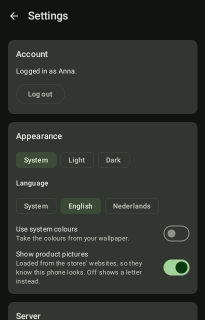
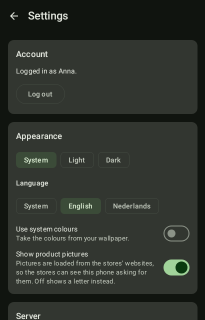
Show the picture of the offer the row's badge is for (#33)
In the per-store views the badge picks among fewer stores than the overview, so the picture follows the shown offer. Also a plainer English hint for the pictures setting.

Changed region(s): [[0.0878, 0.8125, 0.761, 0.9062], [0.0585, 0.8438, 0.0878, 0.875]]

diff --git a/composeApp/src/commonTest/kotlin/dev/tobins/mealplanner/app/ProductPicturesTest.kt b/composeApp/src/commonTest/kotlin/dev/tobins/mealplanner/app/ProductPicturesTest.kt
@@ -1,5 +1,8 @@
 package dev.tobins.mealplanner.app
 
+import dev.tobins.mealplanner.api.Offer
+import dev.tobins.mealplanner.api.ShoppingItem
+import dev.tobins.mealplanner.api.Store
 import kotlin.test.Test
 import kotlin.test.assertEquals
 import kotlin.test.assertNull
@@ -33,5 +36,19 @@ class ProductPicturesTest {
         assertEquals("É", pictureInitial("  énkele boon"))
         assertEquals("5", pictureInitial("5 kruiden"))
         assertEquals("•", pictureInitial(""))
+    }
+
+    @Test
+    fun aShoppingRowShowsThePictureOfTheOfferItsBadgeIsFor() {
+        fun offer(store: Store, price: Double, image: String?) =
+            Offer(store, "Pear", null, price, validFrom = "2026-01-01", validUntil = "2026-01-07", imageUrl = image)
+        val ahOffer = offer(Store.AH, 1.49, ah)
+        val lidlOffer = offer(Store.LIDL, 1.99, lidl)
+        // The item's own picture is the cheapest offer's, Lidl's here; the AH-only view shows AH's badge.
+        val item = ShoppingItem("pear", "Pear", null, null, "Fruit", emptyList(), false, false, listOf(ahOffer, lidlOffer), imageUrl = lidl)
+
+        assertEquals(ah, item.pictureUrl(item.bestOffer(setOf(Store.AH))))
+        assertEquals(lidl, item.pictureUrl(null))
+        assertEquals(lidl, item.pictureUrl(offer(Store.AH, 1.49, null)))
     }
 }

diff --git a/composeApp/src/commonMain/kotlin/dev/tobins/mealplanner/app/ProductPictures.kt b/composeApp/src/commonMain/kotlin/dev/tobins/mealplanner/app/ProductPictures.kt
@@ -23,6 +23,8 @@ import androidx.compose.ui.unit.Dp
 import androidx.compose.ui.unit.dp
 import coil3.ImageLoader
 import coil3.compose.AsyncImage
+import dev.tobins.mealplanner.api.Offer
+import dev.tobins.mealplanner.api.ShoppingItem
 
 /**
  * Loads the product pictures. Null (the default) means none are loaded and every row keeps its
@@ -43,6 +45,12 @@ fun loadablePictureUrl(url: String?, browser: Boolean): String? {
     val host = url.substringAfter("://").substringBefore('/').lowercase()
     return url.takeUnless { browser && host in hostsWithoutCors }
 }
+
+/**
+ * The picture of the offer the row shows its badge for, so picture and badge name the same store
+ * (the per-store views choose among fewer stores than the overview); else the item's own picture.
+ */
+fun ShoppingItem.pictureUrl(shown: Offer?): String? = shown?.imageUrl ?: imageUrl
 
 /** The first letter or digit of [name], capitalised: what stands in for a picture. */
 fun pictureInitial(name: String): String = name.firstOrNull { it.isLetterOrDigit() }?.uppercase() ?: "•"

diff --git a/composeApp/src/commonMain/kotlin/dev/tobins/mealplanner/app/Messages.kt b/composeApp/src/commonMain/kotlin/dev/tobins/mealplanner/app/Messages.kt
@@ -147,8 +147,8 @@ enum class Msg(private val english: String, private val dutch: String) {
     SYSTEM_COLORS_HINT("Take the colours from your wallpaper.", "Neem de kleuren over van je achtergrond."),
     PRODUCT_PICTURES("Show product pictures", "Productfoto's tonen"),
     PRODUCT_PICTURES_HINT(
-        "Loaded from the stores' websites, so they know this phone looks. Off shows a letter instead.",
-        "Worden van de websites van de winkels geladen, dus zij zien dat deze telefoon meekijkt. Uit toont een letter.",
+        "Pictures are loaded from the stores' websites, so the stores can see this phone asking for them. Off shows a letter instead.",
+        "Foto's worden van de websites van de winkels geladen, dus de winkels zien dat deze telefoon ze opvraagt. Uit toont een letter.",
     ),
     CARD_APP("App", "App"),
     VERSION("Version {0}", "Versie {0}"),

diff --git a/composeApp/src/commonMain/kotlin/dev/tobins/mealplanner/app/ShoppingScreen.kt b/composeApp/src/commonMain/kotlin/dev/tobins/mealplanner/app/ShoppingScreen.kt
@@ -477,7 +477,7 @@ private fun ShoppingRow(item: ShoppingItem, offer: Offer?, shoppingMode: Boolean
         verticalAlignment = Alignment.CenterVertically,
     ) {
         Checkbox(checked = item.checked, onCheckedChange = null, modifier = Modifier.padding(12.dp))
-        ProductPicture(item.imageUrl, item.name, size = if (shoppingMode) 56.dp else 48.dp, dimmed = item.checked)
+        ProductPicture(item.pictureUrl(offer), item.name, size = if (shoppingMode) 56.dp else 48.dp, dimmed = item.checked)
         Column(Modifier.weight(1f).padding(start = 12.dp, top = 6.dp, bottom = 6.dp)) {
             Text(
                 if (item.onHand) t(Msg.ON_HAND_MAYBE, item.name) else item.name,
